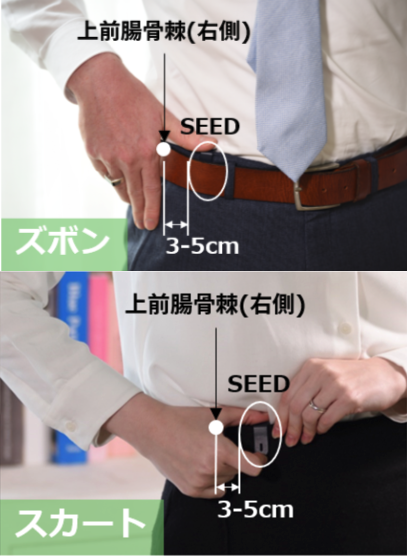
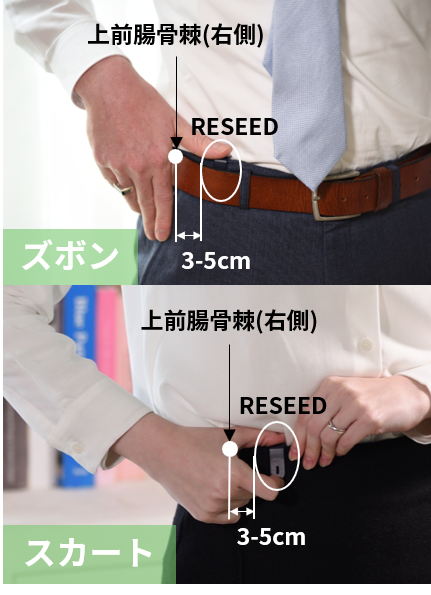
SEED -> RESEED 변경

diff --git a/app-guide-pairing.html b/app-guide-pairing.html
@@ -18,10 +18,10 @@
                 </div>
                 <div class="explainBox">
                     <ul>
-                        <li>SEEDアプリとSEED機器をBluetoothで接続します。</li>
+                        <li>RESEEDアプリとRESEED機器をBluetoothで接続します。</li>
                     </ul>
                     <ul>
-                        <li>SEED機器のボタンを3秒間押すと、青色のLEDが点滅します。</li>
+                        <li>RESEED機器のボタンを3秒間押すと、青色のLEDが点滅します。</li>
                         <li>青色のLEDが点滅している間、アプリ画面の右上の「開始」ボタンを押します。</li>
                         <li>接続に成功すると、機器のファームウェアバージョンを確認してアップデートします。</li>
                     </ul>
@@ -30,7 +30,7 @@
                         <li>機器のボタンを3秒間押しても、青色のLEDが点滅しない場合</li>
                             <ol>
                                 <li>機器のボタンを短く押した場合、振動は来ます場合
-                                    <br/>→ 接続中にエラーが発生した場合、または以前にペアリングがされていることがある場合です。SEED機器のボタンを20秒間押して、青のLEDが点滅することを確認した後に再試行してください。 <br/>(※ アプリで「強制ログイン」メッセージが表示されたら、「確認」を選択してください。)</li>
+                                    <br/>→ 接続中にエラーが発生した場合、または以前にペアリングがされていることがある場合です。RESEED機器のボタンを20秒間押して、青のLEDが点滅することを確認した後に再試行してください。 <br/>(※ アプリで「強制ログイン」メッセージが表示されたら、「確認」を選択してください。)</li>
                                 <li>バッテリーが放電している可能性があります。機器を充電して再試行してください。</li>
                                 <li>それでも接続できない場合は、カスタマーサービスまでお問い合わせください。</li>
                             </ol>

diff --git a/how-to-wear.html b/how-to-wear.html
@@ -33,7 +33,7 @@
                 <div class="explainBox">
                     <ul>
                         <li>ベルト着用の際はなるべくベルトとズボンの間にクリップが挟まるようにしてください。ボタンが押されてしまう可能性があるため、ベルトを締めすぎないでください。</li>
-                        <li>クリップがしっかり入りきっていないとSEEDが横にずれたり外されたりする可能性が高くなります。クリップをしっかり挟んでください。</li>
+                        <li>クリップがしっかり入りきっていないとRESEEDが横にずれたり外されたりする可能性が高くなります。クリップをしっかり挟んでください。</li>
                     </ul>
                 </div>
             </td>

diff --git a/how-to-use.html b/how-to-use.html
@@ -22,7 +22,7 @@
                 </div>
                 <div class="explainBox">
                     <ul>
-                        <li>一定時間悪い姿勢を維持するとSEEDが振動でお知らせします。</li>
+                        <li>一定時間悪い姿勢を維持するとRESEEDが振動でお知らせします。</li>
                         <li>機器のボタンを押して、振動アラームを設定することができます。</li>
                         <li>ボタンを短く一度押すと振動アラームがオンになり、3秒間押すと、振動アラームがオフになります。</li>
                     </ul>

diff --git a/app-guide-lab.html b/app-guide-lab.html
@@ -20,7 +20,7 @@
 
                     <ul>
                         <li>姿勢をテストできます。</li>
-                        <li>SEEDを着用して、画面をつけて　姿勢をテストして見てください。</li>
+                        <li>RESEEDを着用して、画面をつけて　姿勢をテストして見てください。</li>
                     </ul>
                 </div>
             </td>
